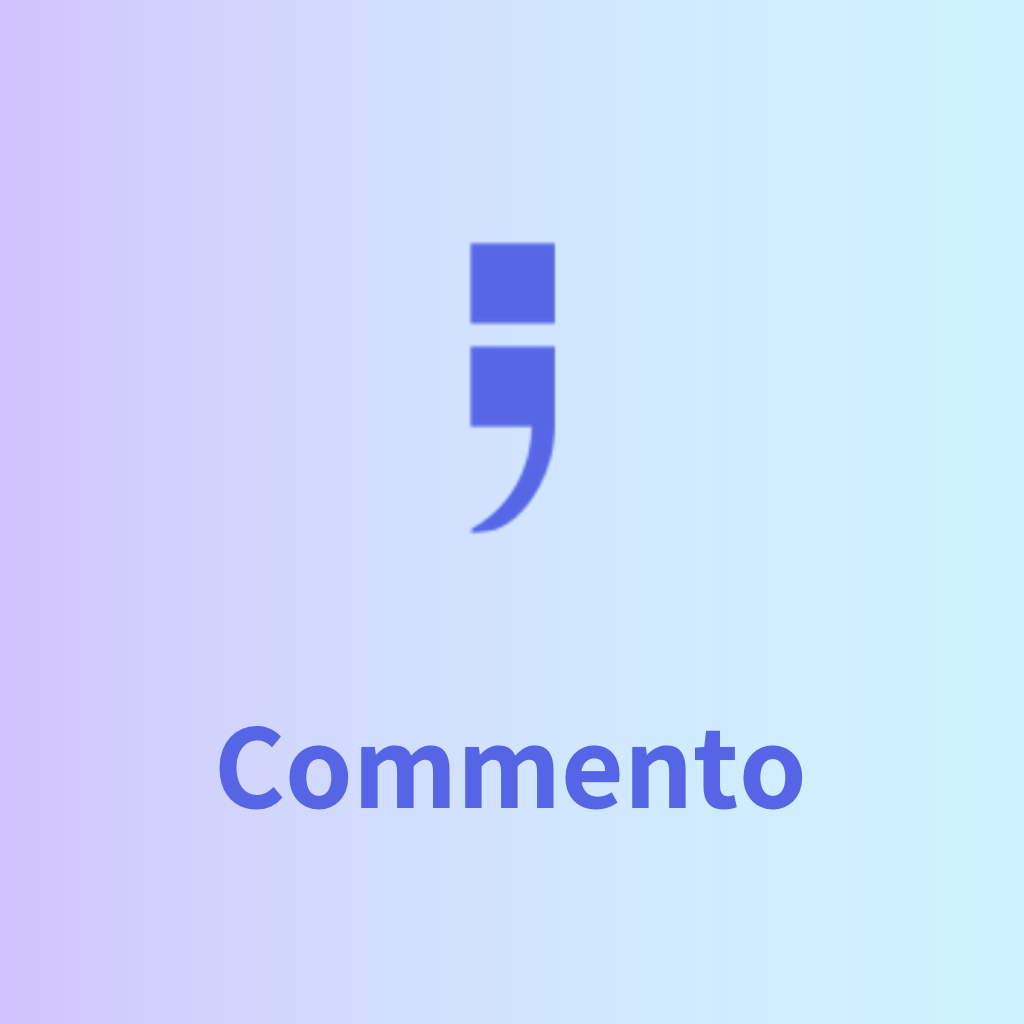
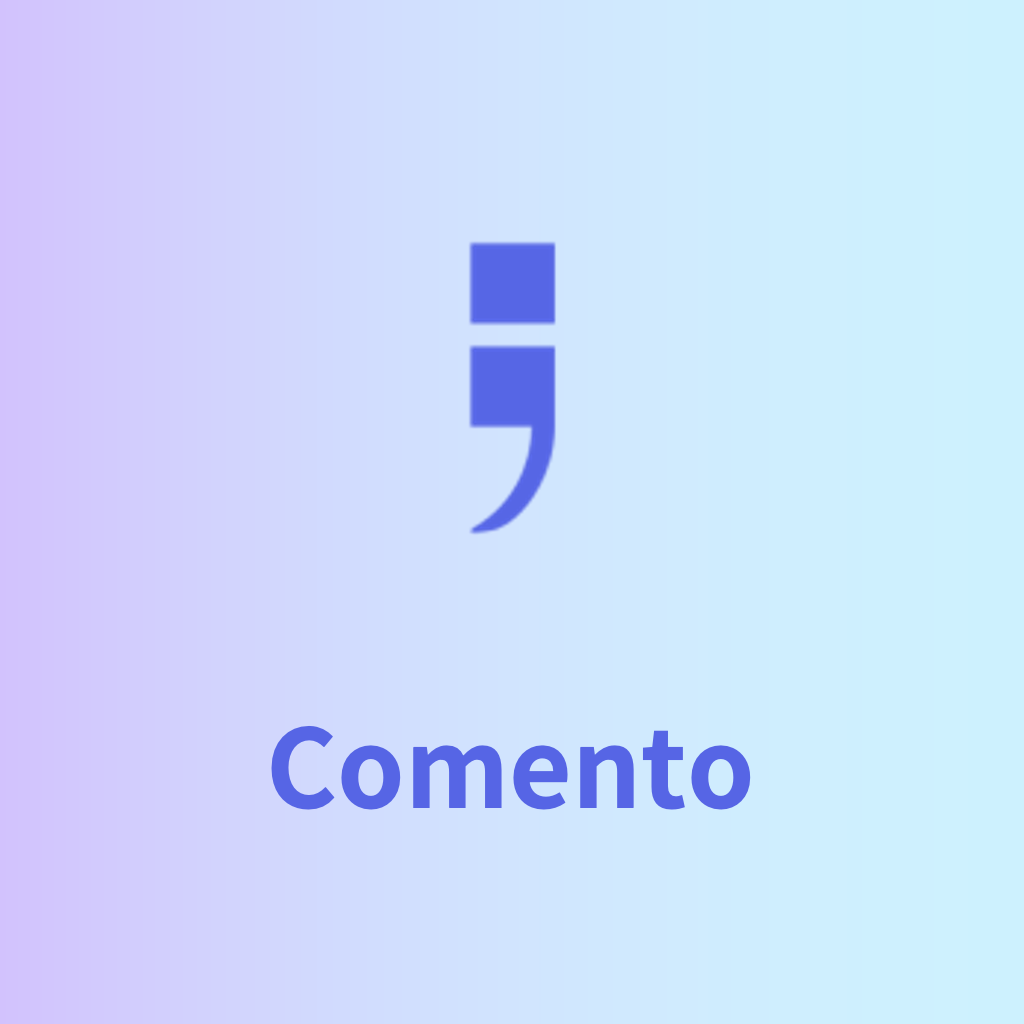
Develop (#34)
* 💄style: card textfield remove

* fix: 코멘토 이미지 오타 수정

---------

Changed region(s): [[0.2188, 0.6875, 0.7812, 0.8125]]

diff --git a/src/components/project/Projects.js b/src/components/project/Projects.js
@@ -4,10 +4,10 @@ const Projects = {
   플랜다이얼: {
     img: Icons[1].src,
     title: '플랜 다이얼',
-    desc: '규칙적인 생활을 할 수 있도록 도와주는 알림 서비스입니다. 규칙적인 일들을 \'다이얼\'이라는 이름으로 저장, 관리하여 알려줍니다. 또한, Plan Dial은 <자취생>, <수험생> 등의 템플릿 기능이 있어 일일이 다이얼을 입력할 필요가 없으며, 규칙적인 생활 습관의 가이드라인을 제공합니다.',
+    desc: "규칙적인 생활을 할 수 있도록 도와주는 알림 서비스입니다. 규칙적인 일들을 '다이얼'이라는 이름으로 저장, 관리하여 알려줍니다. 또한, Plan Dial은 <자취생>, <수험생> 등의 템플릿 기능이 있어 일일이 다이얼을 입력할 필요가 없으며, 규칙적인 생활 습관의 가이드라인을 제공합니다.",
     git: 'https://github.com/ProjectFRIDAY/Plan-Dial-Renewal',
     team: 'FE - 2명, BE - 2명',
-    tag: '#개발완료, #Mobile, #Flutter', 
+    tag: '#개발완료, #Mobile, #Flutter',
     site: 'https://projectfriday.github.io/Plan-Dial-Website/',
     aos: 'https://play.google.com/store/apps/details?id=com.friday.plan_dial_renewal',
     ios: 'https://apps.apple.com/kr/app/plan-dial/id1624636806',
@@ -58,23 +58,23 @@ const Projects = {
     desc: '배달N은 배달비 공유를 위한 커뮤니티 서비스입니다. 배달비를 N빵하여 저렴하게 배달 서비스를 받을 수 있도록 도와주는 모바일 애플리케이션입니다.',
     git: 'https://github.com/ProjectFRIDAY/DeliveryN-Front',
     team: 'PM - 1명, FE - 1명, BE - 1명',
-    tag: '#개발중, #Mobile, #React-Native, #Spring', 
+    tag: '#개발중, #Mobile, #React-Native, #Spring',
   },
   OOTD: {
     img: Icons[6].src,
     title: 'OOTD',
-    desc: 'OOTD는 오늘의 착장을 저장하고 공유하는 서비스입니다. 내 착장을 간단히 올리기만 하면 \'옷장\' 기능을 통해 체계적으로 저장해주며, 다른 사람들의 착장을 보고 옷차림에 대한 아이디어를 얻을 수 있습니다.',
+    desc: "OOTD는 오늘의 착장을 저장하고 공유하는 서비스입니다. 내 착장을 간단히 올리기만 하면 '옷장' 기능을 통해 체계적으로 저장해주며, 다른 사람들의 착장을 보고 옷차림에 대한 아이디어를 얻을 수 있습니다.",
     git: 'https://github.com/ProjectFRIDAY/OOTD',
     team: 'PM - 1명, FE - 2명, BE - 3명, Design - 1명',
-    tag: '#개발중, #Mobile, #React-Native, #Spring-boot', 
+    tag: '#개발중, #Mobile, #React-Native, #Spring-boot',
   },
   레모아: {
     img: Icons[7].src,
     title: '레모아',
-    desc: '레모아는 \'레퍼런스\' + \'모아\'의 합성어로 대회나 공모전 출품작을 공유하는 서비스입니다. 서로의 작품을 공유하며 대회/공모전 참여시 참고할 자료가 부족한 문제를 해결해나가는 웹 서비스입니다.',
+    desc: "레모아는 '레퍼런스' + '모아'의 합성어로 대회나 공모전 출품작을 공유하는 서비스입니다. 서로의 작품을 공유하며 대회/공모전 참여시 참고할 자료가 부족한 문제를 해결해나가는 웹 서비스입니다.",
     git: 'https://github.com/ProjectFRIDAY/Remoa',
     team: 'PM - 2명, FE - 2명, BE - 2명',
-    tag: '#개발중, #Web, #React, #Spring', 
+    tag: '#개발중, #Web, #React, #Spring',
   },
 };
 

diff --git a/src/pages/Project.js b/src/pages/Project.js
@@ -80,13 +80,12 @@ function Project() {
       <BackgroundText>CREATIVE</BackgroundText>
       <Text className="title">Friday Projects</Text>
       <Wrapper>
-      <card.Card
+        <card.Card
           onClick={() => {
             openModal('배달N');
           }}
         >
           <card.ImageField src={Icons[8].src}></card.ImageField>
-          <card.TextField>배달N</card.TextField>
           <card.TagField>
             <card.Tag>#개발중</card.Tag>
             <card.Tag>#Mobile</card.Tag>
@@ -98,7 +97,7 @@ function Project() {
           }}
         >
           <card.ImageField src={Icons[6].src}></card.ImageField>
-          <card.TextField>OOTD</card.TextField>
+
           <card.TagField>
             <card.Tag>#개발중</card.Tag>
             <card.Tag>#Mobile</card.Tag>
@@ -110,7 +109,6 @@ function Project() {
           }}
         >
           <card.ImageField src={Icons[7].src}></card.ImageField>
-          <card.TextField>레모아</card.TextField>
           <card.TagField>
             <card.Tag>#개발중</card.Tag>
             <card.Tag>#Web</card.Tag>
@@ -124,7 +122,6 @@ function Project() {
           }}
         >
           <card.ImageField src={Icons[0].src}></card.ImageField>
-          <card.TextField>코멘토</card.TextField>
           <card.TagField>
             <card.Tag>#개발중</card.Tag>
             <card.Tag>#Web</card.Tag>
@@ -136,7 +133,6 @@ function Project() {
           }}
         >
           <card.ImageField src={Icons[1].src}></card.ImageField>
-          <card.TextField>플랜 다이얼</card.TextField>
           <card.TagField>
             <card.Tag>#개발완료</card.Tag>
             <card.Tag>#Mobile</card.Tag>
@@ -148,7 +144,6 @@ function Project() {
           }}
         >
           <card.ImageField src={Icons[2].src}></card.ImageField>
-          <card.TextField>Friday 웹사이트</card.TextField>
           <card.TagField>
             <card.Tag>#개발완료</card.Tag>
             <card.Tag>#Web</card.Tag>
@@ -162,7 +157,6 @@ function Project() {
           }}
         >
           <card.ImageField src={Icons[3].src}></card.ImageField>
-          <card.TextField>엄마 타이머</card.TextField>
           <card.TagField>
             <card.Tag>#개발완료</card.Tag>
             <card.Tag>#Mobile</card.Tag>
@@ -174,7 +168,6 @@ function Project() {
           }}
         >
           <card.ImageField src={Icons[5].src}></card.ImageField>
-          <card.TextField>텍스티</card.TextField>
           <card.TagField>
             <card.Tag>#해커톤</card.Tag>
             <card.Tag>#Web</card.Tag>
@@ -186,7 +179,6 @@ function Project() {
           }}
         >
           <card.ImageField src={Icons[4].src}></card.ImageField>
-          <card.TextField>약속이</card.TextField>
           <card.TagField>
             <card.Tag>#토이프로젝트</card.Tag>
             <card.Tag>#Web</card.Tag>

diff --git a/src/components/project/Card.js b/src/components/project/Card.js
@@ -8,7 +8,7 @@ const Card = styled.div`
   }
   cursor: pointer;
   width: 20rem;
-  height: 27rem;
+  height: 25rem;
   display: flex;
   flex-direction: column;
   border-radius: 10px;
@@ -23,22 +23,6 @@ const ImageField = styled.img`
   border-top-left-radius: 10px;
   border-top-right-radius: 10px;
   object-fit: cover;
-`;
-
-const TextField = styled.div`
-  @media only screen and (max-width: 1000px) {
-    height: 5rem;
-    font-size: 23px;
-    padding-bottom: 20px;
-  }
-  height: 7rem;
-  background: white;
-  color: black;
-  text-align: center;
-  padding-top: 1rem;
-  font-family: SegoeUISymbol;
-  font-weight: 800;
-  font-size: 25px;
 `;
 
 const TagField = styled.div`
@@ -64,4 +48,4 @@ const Tag = styled.span`
   text-shadow: #01baae 0 0 10px;
 `;
 
-export default { Card, TextField, ImageField, TagField, Tag };
+export default { Card, ImageField, TagField, Tag };
